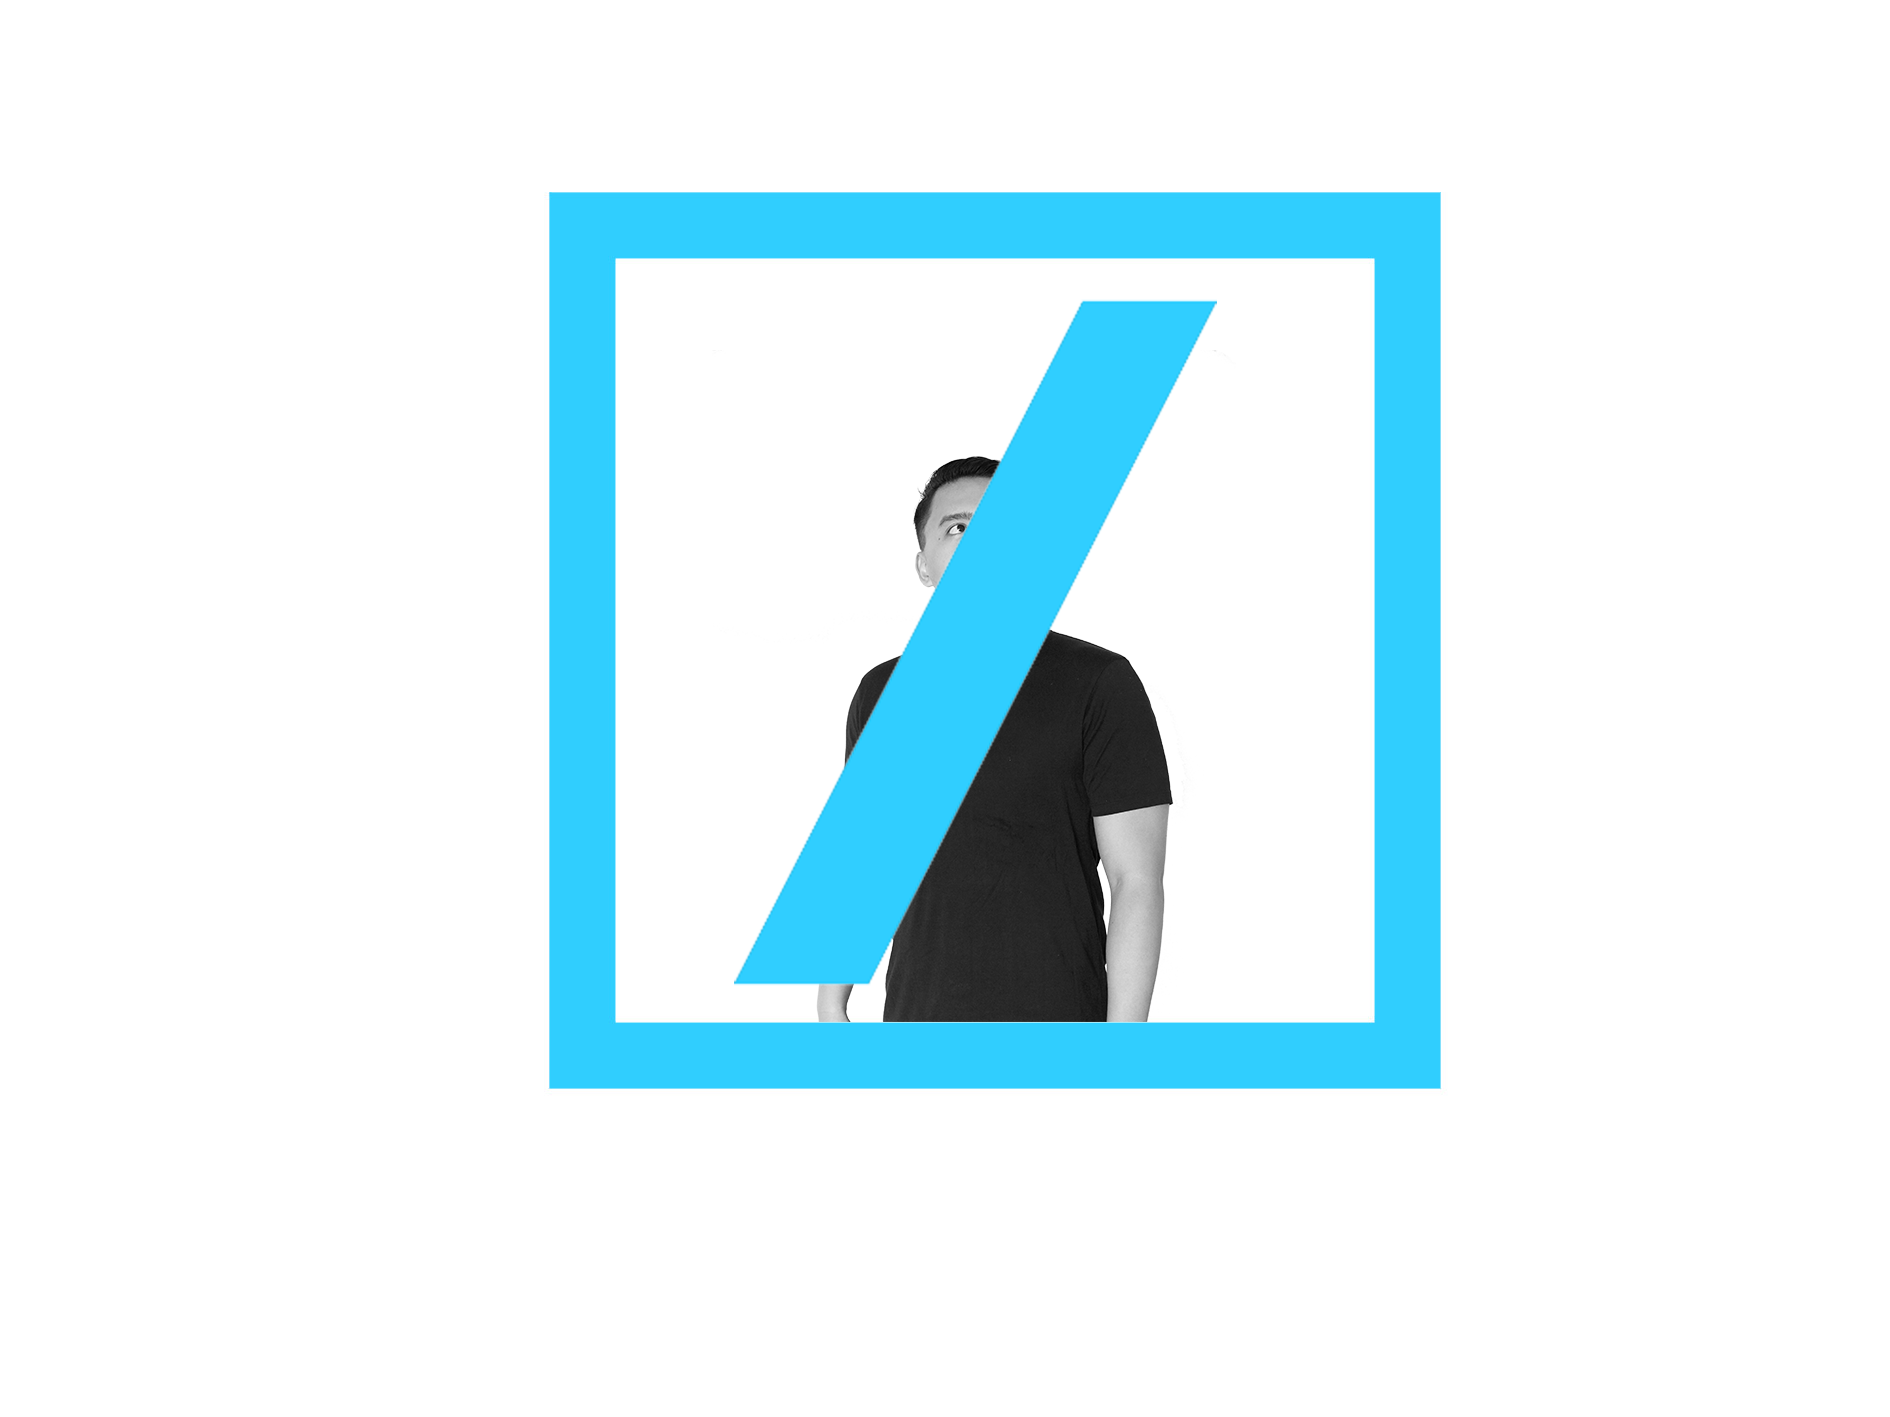
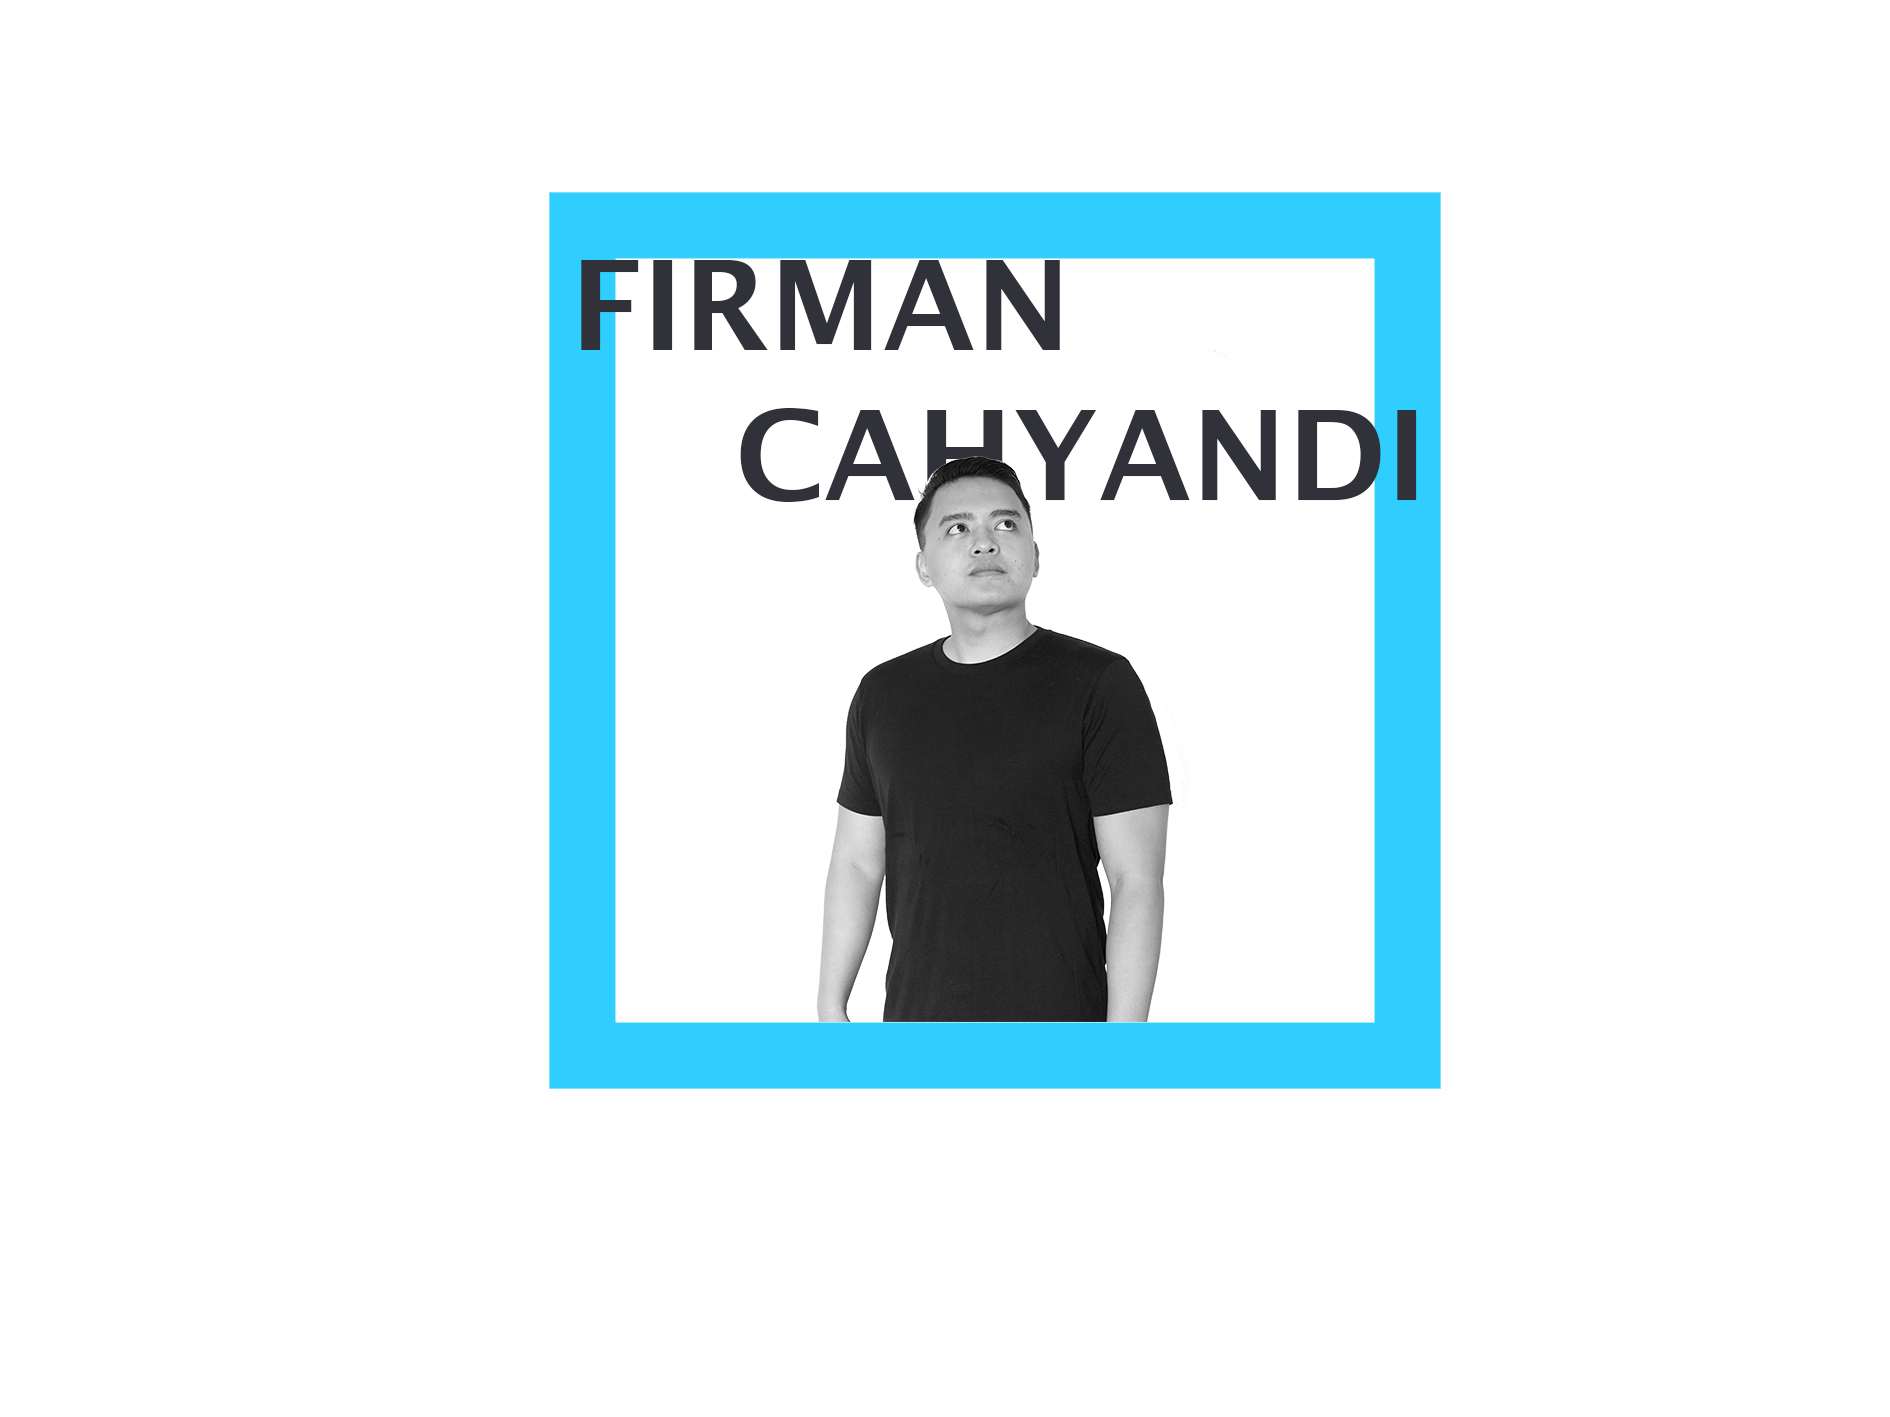
fixed a few bugs and add texts

Changed region(s): [[0.281, 0.1863, 0.7492, 0.7142], [0.4058, 0.3416, 0.437, 0.3726]]

diff --git a/app/assets/stylesheets/sections/_about.scss b/app/assets/stylesheets/sections/_about.scss
@@ -26,16 +26,23 @@
 .socialBox img{
 	padding: 20px;
 	border-radius: 50%;
+	height:200px;
+	width:200px;
 }
 
 .socialBox i {
 	padding-right: 10px;
+	color: black;
 }
 
 #textAbout {
 	border-top-style: solid;
 	border-top-width: 20px;
 	border-top-color: #30CEFF;
+}
+
+.addPadding {
+	padding-top: 130px;
 }
 
 .dynamicTile {
@@ -47,5 +54,18 @@
 	#about-section h1{
 		text-align: center;
 	}
+	
+	.socialBox img{
+		height:190px;
+		width:190px;
+	}
+	
+	.addPadding {
+	padding-top: 40px;
+	}
 }
+
+
+
+
 

diff --git a/app/assets/stylesheets/sections/_skills.scss b/app/assets/stylesheets/sections/_skills.scss
@@ -13,10 +13,14 @@
     text-align: right;
     padding-right: 20px; 
     line-height: 20px;
-    color: white;
+    color: grey;
 }
 
-.html {width: 90%; background-color: White;}
+.frontEnd {width: 30%; background-color: White;}
+
+.backend {width: 40%; background-color: White;}
+
+.others {width: 40%; background-color: White;}
 
 .skillBox {
 		float:left;

diff --git a/app/assets/stylesheets/pages.scss b/app/assets/stylesheets/pages.scss
@@ -42,6 +42,7 @@ body, html {
 }
 
 @media screen and (max-width: 767px) {
+	
 	#about-section {
 	background-position: center center;
 	background-repeat: no-repeat;
